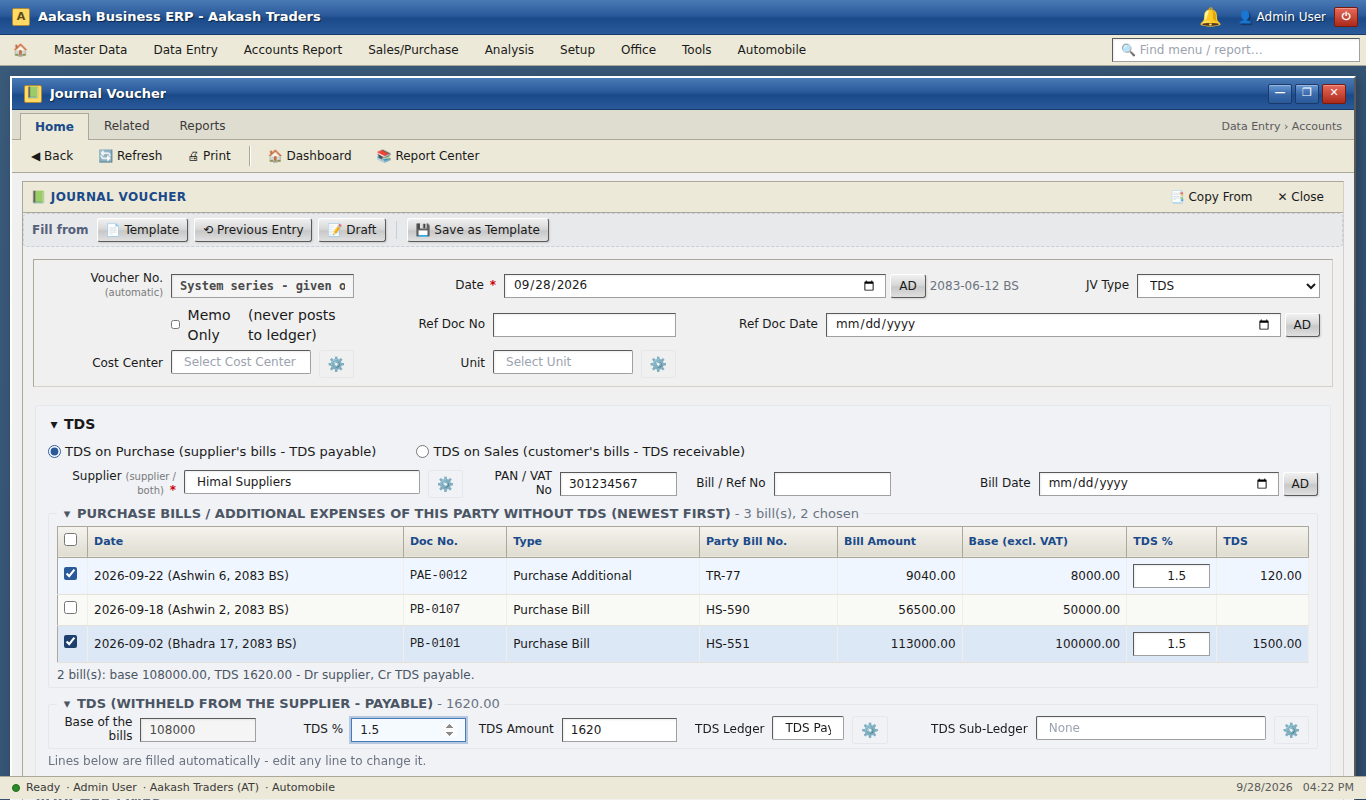
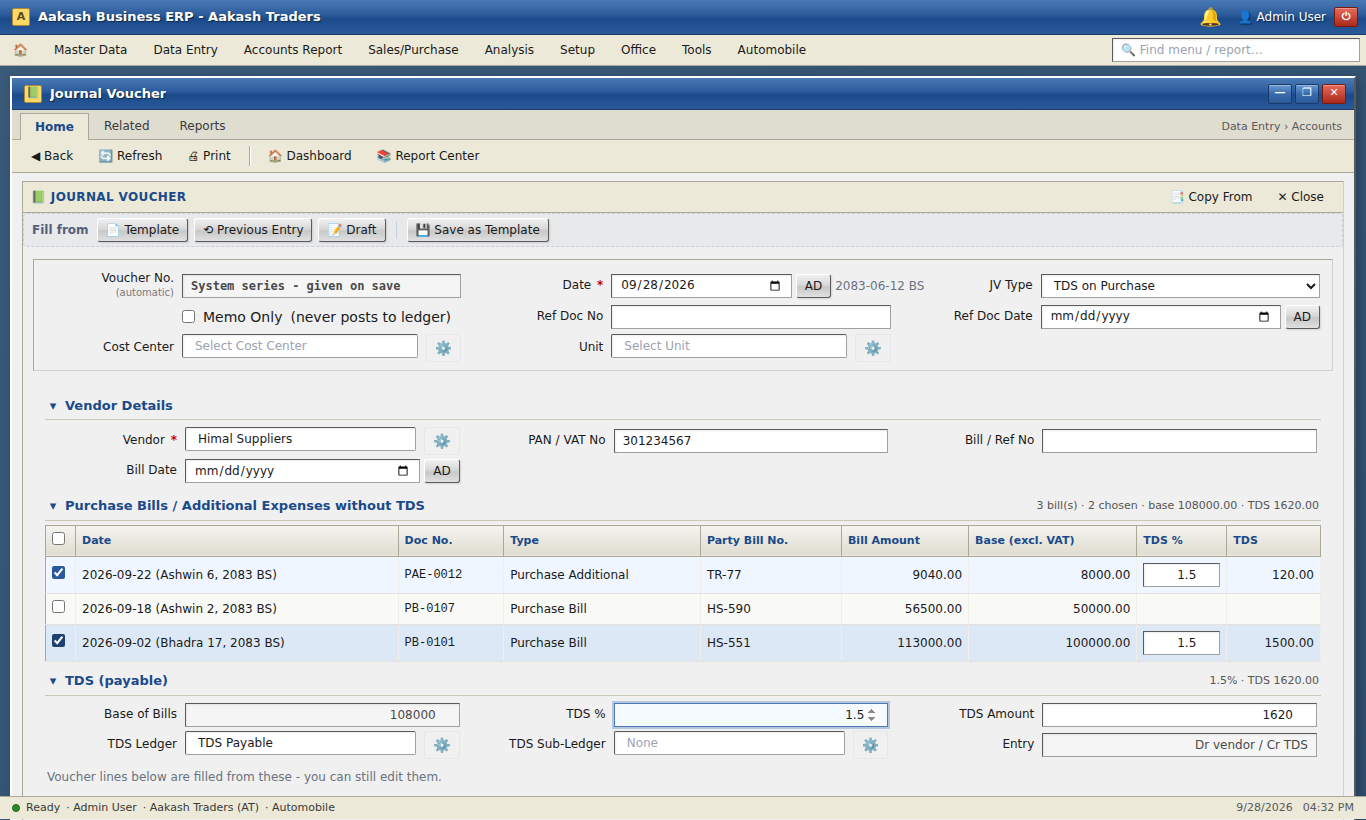
JV: TDS on Purchase / Sales in the JV Type drop-down, NAV FastTabs
- JV Type is one drop-down; TDS on Purchase and TDS on Sales are its
  own choices (no separate radio buttons)
- Vendor/Customer Details, Bill Details, Bills without TDS and TDS are
  folding FastTabs with an arrow and a summary while folded
- Even caption-left three-column fields with small gaps; master part
  in three clean columns

Claude-Session: https://claude.ai/code/session_01JSLvMSYStLj7q2tQjBdXtX

diff --git a/client/src/pages/JournalVoucher.jsx b/client/src/pages/JournalVoucher.jsx
@@ -43,6 +43,9 @@ export const JV_TYPES = [
     { key: 'service_sales', label: 'Taxable / Non-taxable Service Sales', side: 'sales', purposes: ['income'], acct: 'Service Income A/c' },
     { key: 'tds', label: 'TDS', side: 'tds', purposes: ['expense', 'purchase_goods', 'fixed_asset'], acct: 'Expense A/c' }
 ];
+// the JV Type drop-down: one choice, TDS split into on-purchase / on-sales
+const TYPE_CHOICES = [...JV_TYPES.filter(t => t.key !== 'tds').map(t => ({ value: t.key, label: t.label })),
+    { value: 'tds:purchase', label: 'TDS on Purchase' }, { value: 'tds:sales', label: 'TDS on Sales' }];
 const typeOf = k => JV_TYPES.find(t => t.key === k) || JV_TYPES[0];
 const Arrow = ({ open }) => <span className="inline-block w-3 text-center" style={{ transform: open ? 'rotate(0deg)' : 'rotate(-90deg)', transition: 'transform .15s' }}>▾</span>;
 
@@ -171,10 +174,12 @@ export default function JournalVoucher() {
     // TDS journal against bills: the party's open bills (newest first), several can be chosen
     const [openBills, setOpenBills] = useState([]);
     // the bill list folds away with the arrow; the chosen bills' total stays visible
-    const [billsOpen, setBillsOpen] = useState(false);
-    // the type's option panel and the (optional) TDS part fold with their arrows too
-    const [panelOpen, setPanelOpen] = useState(true);
+    // FastTabs of the type's options: each folds with its arrow (summary shown when folded)
+    const [partyOpen, setPartyOpen] = useState(true);
+    const [detailOpen, setDetailOpen] = useState(true);
+    const [billsOpen, setBillsOpen] = useState(true);
     const [tdsOpen, setTdsOpen] = useState(false);
+    useEffect(() => { setTdsOpen(form.jv_type === 'tds' || Number(form.tds_amount) > 0); }, [form.jv_type]); // eslint-disable-line react-hooks/exhaustive-deps
     useEffect(() => {
         if (!isTds || !form.party_ledger_id) { setOpenBills([]); return; }
         const q = new URLSearchParams({ side: form.tds_side || 'purchase', party_id: form.party_ledger_id, ...(editingId ? { jv_id: editingId } : {}) });
@@ -198,12 +203,12 @@ export default function JournalVoucher() {
     const lineLedgers = jt.key === 'normal' ? ledgers : ledgers.filter(l => partyCats.includes(l.category_type)
         || (jt.purposes || []).some(p => lp.can(l.id, p)) || lp.can(l.id, partySales ? 'income' : 'expense')
         || [taxAcct.vat, form.tds_ledger_id, defaultTdsLedger, sysCtl.vat_ledger_id].includes(l.id) || form.details.some(d => d.ledger_id === l.id));
-    const changeType = key => {
+    const changeType = (key, side) => {
         setAutoLines(true);
+        setPartyOpen(true); setDetailOpen(true); setBillsOpen(true);
         // a new type starts its TDS afresh (the TDS type's base is not a purchase's)
-        setForm(f => ({ ...f, jv_type: key, tds_ledger_id: '', tds_sub_ledger_id: '', tds_percent: '', tds_base_amount: '', tds_amount: '', tds_bills: [], party_ledger_id: '', party_pan: '', ...(key === 'normal' ? { details: [emptyDetailRow(), emptyDetailRow()] } : {}) }));
+        setForm(f => ({ ...f, jv_type: key, tds_ledger_id: '', tds_sub_ledger_id: '', tds_percent: '', tds_base_amount: '', tds_amount: '', tds_bills: [], party_ledger_id: '', party_pan: '', tds_side: side || 'purchase', ...(key === 'normal' ? { details: [emptyDetailRow(), emptyDetailRow()] } : {}) }));
     };
-    const changeTdsSide = side => { setAutoLines(true); setForm(f => ({ ...f, tds_side: side, party_ledger_id: '', party_pan: '', tds_bills: [], tds_ledger_id: '', tds_sub_ledger_id: '', tds_base_amount: '', tds_amount: '' })); };
     const buildTaxLines = (f, acct) => {
         const t = typeOf(f.jv_type);
         const goodsAmt = r2(Number(f.taxable_amount || 0) + Number(f.non_taxable_amount || 0)), vat = r2(f.vat_amount), total = r2(goodsAmt + vat), tds = r2(f.tds_amount);
@@ -388,16 +393,17 @@ export default function JournalVoucher() {
             {showForm && (
                 <form onSubmit={handleSubmit} ref={formRef}>
                     <EntryFillBar voucherType="journal" api="journal-vouchers" form={form} editing={!!editingId} onFill={p => setForm(f => ({ ...f, ...p }))} onCopy={r => handleCopyFrom(r.id)} />
-                    <div className="erp-topbar grid-cols-1 md:grid-cols-4">
+                    <div className="erp-topbar grid-cols-1 md:grid-cols-3">
                         <DocNumberField docDate={form.doc_date} voucherType="journal" categoryId={form.numbering_category_id} docNo={editingId ? form.doc_no : ''} value={form.doc_no} onChange={v => setForm(f => ({ ...f, doc_no: v }))} />
-                        <div className={efc.isVisible('doc_date') ? 'erp-field md:col-span-2' : 'erp-field hidden'}>
+                        <div className={efc.isVisible('doc_date') ? 'erp-field' : 'erp-field hidden'}>
                             <label className="erp-label">Date <span className="req">*</span></label>
                             <DualDateInput value={form.doc_date} onChange={v => setForm(f => ({ ...f, doc_date: v }))} disabled={efc.isReadonly('doc_date')} required defaultMode={sysCtl.date_format_entry} />
                         </div>
                         <div className={efc.isVisible('jv_type') ? 'erp-field' : 'erp-field hidden'}>
                             <label className="erp-label">JV Type</label>
-                            <select className="erp-select" value={form.jv_type} disabled={efc.isReadonly('jv_type')} onChange={e => changeType(e.target.value)}>
-                                {JV_TYPES.map(t => <option key={t.key} value={t.key}>{t.label}</option>)}
+                            <select className="erp-select" value={form.jv_type === 'tds' ? `tds:${form.tds_side || 'purchase'}` : form.jv_type} disabled={efc.isReadonly('jv_type')}
+                                onChange={e => { const [k, side] = e.target.value.split(':'); changeType(k, side); }}>
+                                {TYPE_CHOICES.map(t => <option key={t.value} value={t.value}>{t.label}</option>)}
                             </select>
                         </div>
                         <div className="erp-field justify-end">
@@ -410,7 +416,7 @@ export default function JournalVoucher() {
                             <label className="erp-label">Ref Doc No {efc.isRequired('ref_doc_no') && <span className="req">*</span>}</label>
                             <input disabled={efc.isReadonly('ref_doc_no')} className="erp-input" value={form.ref_doc_no} onChange={e => setForm({ ...form, ref_doc_no: e.target.value })} />
                         </div>
-                        <div className={efc.isVisible('ref_doc_date') ? 'erp-field md:col-span-2' : 'erp-field hidden'}>
+                        <div className={efc.isVisible('ref_doc_date') ? 'erp-field' : 'erp-field hidden'}>
                             <label className="erp-label">Ref Doc Date {efc.isRequired('ref_doc_date') && <span className="req">*</span>}</label>
                             <DualDateInput value={form.ref_doc_date} onChange={v => setForm(f => ({ ...f, ref_doc_date: v }))} disabled={efc.isReadonly('ref_doc_date')} defaultMode={sysCtl.date_format_entry} />
                         </div>
@@ -442,59 +448,69 @@ export default function JournalVoucher() {
                     </div>
 
                     <div className="erp-tab-content">
-                        {jt.key !== 'normal' && (
-                        <div className="border rounded px-3 py-2 mb-3 bg-blue-50/40">
-                            <button type="button" className="flex items-center gap-1 text-sm font-semibold" onClick={() => setPanelOpen(o => !o)} aria-expanded={panelOpen} title={panelOpen ? 'Collapse' : 'Expand'}>
-                                <Arrow open={panelOpen} /> {jt.label}
-                                {!panelOpen && <span className="font-normal text-gray-500 text-xs ml-2">{ledgers.find(l => l.id === form.party_ledger_id)?.account_name || 'no party'}{isTax ? ` · bill ${taxTotal.toFixed(2)}` : ''}{tdsAmount > 0 ? ` · TDS ${tdsAmount.toFixed(2)}` : ''}</span>}
+                        {jt.key !== 'normal' && (<>
+                        {/* ---- Vendor / Customer (FastTab) ---- */}
+                        <div className="nav-fasttab">
+                            <button type="button" className="nav-fasttab-head" onClick={() => setPartyOpen(o => !o)} aria-expanded={partyOpen}>
+                                <Arrow open={partyOpen} /> {partySales ? 'Customer' : 'Vendor'} Details
+                                {!partyOpen && <span className="nav-fasttab-sum">{ledgers.find(l => l.id === form.party_ledger_id)?.account_name || 'not chosen'}{form.party_pan ? ` · PAN ${form.party_pan}` : ''}{form.party_bill_no ? ` · Bill ${form.party_bill_no}` : ''}</span>}
                             </button>
-                            {panelOpen && (<>
-                            <div className="grid grid-cols-2 md:grid-cols-6 gap-x-3 gap-y-1 mt-1">
-                                {isTds && (
-                                    <div className="md:col-span-6 col-span-2 flex flex-wrap items-center gap-x-6 gap-y-1 text-sm py-1">
-                                        {[['purchase', 'TDS on Purchase (supplier\'s bills - TDS payable)'], ['sales', 'TDS on Sales (customer\'s bills - TDS receivable)']].map(([k, t]) => (
-                                            <label key={k} className="flex items-center gap-1 mr-4"><input type="radio" name="jv_tds_side" checked={(form.tds_side || 'purchase') === k} onChange={() => changeTdsSide(k)} /> {t}</label>
-                                        ))}
+                            {partyOpen && (
+                                <div className="nav-fasttab-body">
+                                    <div className="erp-field"><label className="erp-label">{partySales ? 'Customer' : 'Vendor'} <span className="req">*</span></label>
+                                        <SearchablePopupSelect
+                                            listKey="jv_tax_party_picker"
+                                            columns={[{ key: 'account_code', label: 'Code' }, { key: 'account_name', label: 'Name' }, { key: 'pan_number', label: 'PAN' }]}
+                                            defaultVisibleKeys={['account_name']}
+                                            items={partyLedgers} getId={l => l.id} getLabel={l => l.account_name}
+                                            searchKeys={['account_name', 'account_code', 'pan_number']}
+                                            value={form.party_ledger_id} onChange={id => setTax({ party_ledger_id: id, tds_bills: [], tds_base_amount: '', tds_amount: '' })} placeholder={partySales ? 'Customer / both' : 'Vendor / both'}
+                                        /></div>
+                                    <div className="erp-field"><label className="erp-label">PAN / VAT No</label><input className="erp-input" value={form.party_pan || ''} onChange={e => setTax({ party_pan: e.target.value })} /></div>
+                                    <div className="erp-field"><label className="erp-label">{jt.side === 'purchase' ? "Vendor's Bill No" : jt.side === 'sales' ? 'Invoice No' : 'Bill / Ref No'}{jt.side === 'purchase' && <span className="req">*</span>}</label><input className="erp-input" value={form.party_bill_no || ''} onChange={e => setTax({ party_bill_no: e.target.value })} /></div>
+                                    <div className="erp-field"><label className="erp-label">Bill Date</label><DualDateInput value={form.party_bill_date || ''} onChange={v => setTax({ party_bill_date: v })} defaultMode={sysCtl.date_format_entry} /></div>
+                                </div>
+                            )}
+                        </div>
+
+                        {/* ---- Bill Details (FastTab): amounts and accounts of the tax types ---- */}
+                        {(isTax || (isTds && !billMode && !tdsSales)) && (
+                            <div className="nav-fasttab">
+                                <button type="button" className="nav-fasttab-head" onClick={() => setDetailOpen(o => !o)} aria-expanded={detailOpen}>
+                                    <Arrow open={detailOpen} /> Bill Details
+                                    {!detailOpen && <span className="nav-fasttab-sum">{isTax ? `Taxable ${r2(form.taxable_amount).toFixed(2)} · Non-taxable ${r2(form.non_taxable_amount).toFixed(2)} · VAT ${r2(form.vat_amount).toFixed(2)} · Total ${taxTotal.toFixed(2)}` : `Expense ${r2(form.tds_base_amount).toFixed(2)}`}</span>}
+                                </button>
+                                {detailOpen && (
+                                    <div className="nav-fasttab-body">
+                                        {isTax && (<>
+                                            <div className="erp-field"><label className="erp-label">Taxable Amount</label><input type="number" step="0.01" className="erp-input text-right" value={form.taxable_amount} onChange={e => setTax({ taxable_amount: e.target.value })} /></div>
+                                            <div className="erp-field"><label className="erp-label">VAT %</label><input type="number" step="0.01" className="erp-input text-right" value={form.vat_percent ?? ''} onChange={e => setTax({ vat_percent: e.target.value })} /></div>
+                                            <div className="erp-field"><label className="erp-label">VAT Amount</label><input type="number" step="0.01" className="erp-input text-right" value={form.vat_amount} onChange={e => setTax({ vat_amount: e.target.value })} /></div>
+                                            <div className="erp-field"><label className="erp-label">Non-taxable Amount</label><input type="number" step="0.01" className="erp-input text-right" value={form.non_taxable_amount} onChange={e => setTax({ non_taxable_amount: e.target.value })} /></div>
+                                        </>)}
+                                        <div className="erp-field"><label className="erp-label">{jt.acct}</label>
+                                            <SearchablePopupSelect listKey="jv_tax_goods_picker" columns={[{ key: 'account_code', label: 'Code' }, { key: 'account_name', label: 'Name' }]} defaultVisibleKeys={['account_name']}
+                                                items={filterAny(ledgers, jt.purposes || [], taxAcct.goods)} getId={l => l.id} getLabel={l => l.account_name} searchKeys={['account_name', 'account_code']}
+                                                value={taxAcct.goods} onChange={id => { setAutoLines(true); setTaxAcct(a => ({ ...a, goods: id })); }} placeholder="Choose account" /></div>
+                                        {isTax && <div className="erp-field"><label className="erp-label">VAT A/c</label>
+                                            <SearchablePopupSelect listKey="jv_tax_vat_picker" columns={[{ key: 'account_code', label: 'Code' }, { key: 'account_name', label: 'Name' }]} defaultVisibleKeys={['account_name']}
+                                                items={lp.filter(ledgers, 'vat', taxAcct.vat)} getId={l => l.id} getLabel={l => l.account_name} searchKeys={['account_name', 'account_code']}
+                                                value={taxAcct.vat} onChange={id => { setAutoLines(true); setTaxAcct(a => ({ ...a, vat: id })); }} placeholder="VAT ledger" /></div>}
+                                        {isTax && <div className="erp-field"><label className="erp-label">Bill Total</label><input className="erp-input text-right font-semibold" readOnly tabIndex={-1} value={taxTotal.toFixed(2)} /></div>}
                                     </div>
                                 )}
-                                <div className="erp-field md:col-span-2"><label className="erp-label">{partySales ? 'Customer' : 'Supplier'} <span className="hint">({partySales ? 'customer / both' : 'supplier / both'})</span> <span className="req">*</span></label>
-                                    <SearchablePopupSelect
-                                        listKey="jv_tax_party_picker"
-                                        columns={[{ key: 'account_code', label: 'Code' }, { key: 'account_name', label: 'Name' }, { key: 'pan_number', label: 'PAN' }]}
-                                        defaultVisibleKeys={['account_name']}
-                                        items={partyLedgers} getId={l => l.id} getLabel={l => l.account_name}
-                                        searchKeys={['account_name', 'account_code', 'pan_number']}
-                                        value={form.party_ledger_id} onChange={id => setTax({ party_ledger_id: id, tds_bills: [], tds_base_amount: '', tds_amount: '' })} placeholder="Choose party"
-                                    /></div>
-                                <div className="erp-field"><label className="erp-label">PAN / VAT No</label><input className="erp-input" value={form.party_pan || ''} onChange={e => setTax({ party_pan: e.target.value })} /></div>
-                                <div className="erp-field"><label className="erp-label">{jt.side === 'purchase' ? "Supplier's Bill No *" : jt.side === 'sales' ? 'Invoice No' : 'Bill / Ref No'}</label><input className="erp-input" value={form.party_bill_no || ''} onChange={e => setTax({ party_bill_no: e.target.value })} /></div>
-                                <div className="erp-field md:col-span-2"><label className="erp-label">Bill Date</label><DualDateInput value={form.party_bill_date || ''} onChange={v => setTax({ party_bill_date: v })} defaultMode={sysCtl.date_format_entry} /></div>
-                                {isTax && (<>
-                                    <div className="erp-field"><label className="erp-label">Taxable Amount</label><input type="number" step="0.01" className="erp-input" value={form.taxable_amount} onChange={e => setTax({ taxable_amount: e.target.value })} /></div>
-                                    <div className="erp-field"><label className="erp-label">Non-taxable Amount</label><input type="number" step="0.01" className="erp-input" value={form.non_taxable_amount} onChange={e => setTax({ non_taxable_amount: e.target.value })} /></div>
-                                    <div className="erp-field"><label className="erp-label">VAT %</label><input type="number" step="0.01" className="erp-input" value={form.vat_percent ?? ''} onChange={e => setTax({ vat_percent: e.target.value })} /></div>
-                                    <div className="erp-field"><label className="erp-label">VAT Amount</label><input type="number" step="0.01" className="erp-input" value={form.vat_amount} onChange={e => setTax({ vat_amount: e.target.value })} /></div>
-                                </>)}
-                                {!(isTds && (billMode || tdsSales)) && <div className="erp-field"><label className="erp-label">{jt.acct}</label>
-                                    <SearchablePopupSelect listKey="jv_tax_goods_picker" columns={[{ key: 'account_code', label: 'Code' }, { key: 'account_name', label: 'Name' }]} defaultVisibleKeys={['account_name']}
-                                        items={filterAny(ledgers, jt.purposes || [], taxAcct.goods)} getId={l => l.id} getLabel={l => l.account_name} searchKeys={['account_name', 'account_code']}
-                                        value={taxAcct.goods} onChange={id => { setAutoLines(true); setTaxAcct(a => ({ ...a, goods: id })); }} placeholder="Choose account" /></div>}
-                                {isTax && <div className="erp-field"><label className="erp-label">VAT A/c</label>
-                                    <SearchablePopupSelect listKey="jv_tax_vat_picker" columns={[{ key: 'account_code', label: 'Code' }, { key: 'account_name', label: 'Name' }]} defaultVisibleKeys={['account_name']}
-                                        items={lp.filter(ledgers, 'vat', taxAcct.vat)} getId={l => l.id} getLabel={l => l.account_name} searchKeys={['account_name', 'account_code']}
-                                        value={taxAcct.vat} onChange={id => { setAutoLines(true); setTaxAcct(a => ({ ...a, vat: id })); }} placeholder="VAT ledger" /></div>}
                             </div>
-                            {isTds && form.party_ledger_id && (
-                                <fieldset className="border rounded px-2 py-1 mt-2">
-                                    <legend className="px-1 text-xs font-semibold text-gray-600 uppercase">
-                                        <button type="button" className="flex items-center gap-1 uppercase" onClick={() => setBillsOpen(o => !o)} title={billsOpen ? 'Collapse the bill list' : 'Expand the bill list'} aria-expanded={billsOpen}>
-                                            <Arrow open={billsOpen} />
-                                            {tdsSales ? 'Sales bills' : 'Purchase bills / additional expenses'} of this party without TDS (newest first)
-                                            <span className="normal-case font-normal text-gray-500">- {shownBills.length} bill(s){(form.tds_bills || []).length ? `, ${form.tds_bills.length} chosen` : ''}</span>
-                                        </button>
-                                    </legend>
-                                    {billsOpen && (
-                                    <div className="overflow-auto" style={{ maxHeight: 180 }}>
+                        )}
+
+                        {/* ---- Bills without TDS (FastTab) ---- */}
+                        {isTds && form.party_ledger_id && (
+                            <div className="nav-fasttab">
+                                <button type="button" className="nav-fasttab-head" onClick={() => setBillsOpen(o => !o)} aria-expanded={billsOpen}>
+                                    <Arrow open={billsOpen} /> {tdsSales ? 'Sales Bills' : 'Purchase Bills / Additional Expenses'} without TDS
+                                    <span className="nav-fasttab-sum">{shownBills.length} bill(s){billMode ? ` · ${form.tds_bills.length} chosen · base ${r2(form.tds_base_amount).toFixed(2)} · TDS ${tdsAmount.toFixed(2)}` : ''}</span>
+                                </button>
+                                {billsOpen && (
+                                    <div className="overflow-auto my-1" style={{ maxHeight: 180 }}>
                                         <table className="erp-grid-table">
                                             <thead><tr>
                                                 <th style={{ width: 30 }}><input type="checkbox" checked={shownBills.length > 0 && shownBills.every(b => (form.tds_bills || []).some(x => billKey(x) === billKey(b)))}
@@ -514,48 +530,43 @@ export default function JournalVoucher() {
                                                         </tr>
                                                     );
                                                 })}
-                                                {shownBills.length === 0 && <tr><td colSpan={9} className="text-center text-gray-400">No bill of this party is waiting for TDS{tdsSales ? '' : ' - enter the amount below for TDS on an expense without a bill'}.</td></tr>}
+                                                {shownBills.length === 0 && <tr><td colSpan={9} className="text-center text-gray-400">No bill of this party is waiting for TDS{tdsSales ? '' : ' - use Bill Details for TDS on an expense without a bill'}.</td></tr>}
                                             </tbody>
                                         </table>
                                     </div>
-                                    )}
-                                    {billMode && <p className="text-xs text-gray-600 mt-1">{form.tds_bills.length} bill(s): base {r2(form.tds_base_amount).toFixed(2)}, TDS {tdsAmount.toFixed(2)} - {tdsSales ? 'Dr TDS receivable, Cr customer.' : 'Dr supplier, Cr TDS payable.'}</p>}
-                                </fieldset>
-                            )}
-                            <fieldset className="border rounded px-2 py-1 mt-2">
-                                <legend className="px-1 text-xs font-semibold text-gray-600 uppercase">
-                                    <button type="button" className="flex items-center gap-1 uppercase" onClick={() => setTdsOpen(o => !o)} aria-expanded={isTds || tdsOpen || tdsAmount > 0}>
-                                        <Arrow open={isTds || tdsOpen || tdsAmount > 0} />
-                                        TDS {partySales ? '(deducted by the customer - receivable)' : '(withheld from the supplier - payable)'}{jt.side !== 'tds' && <span className="font-normal normal-case"> - optional</span>}
-                                        {tdsAmount > 0 && <span className="normal-case font-normal text-gray-500">- {tdsAmount.toFixed(2)}</span>}
-                                    </button>
-                                </legend>
-                                {(isTds || tdsOpen || tdsAmount > 0) && (<>
-                                <div className="grid grid-cols-2 md:grid-cols-6 gap-x-3 gap-y-1">
-                                    <div className="erp-field"><label className="erp-label">{isTds ? (billMode ? 'Base of the bills' : 'Amount (TDS base) *') : 'TDS Base'}</label><input type="number" step="0.01" className="erp-input" readOnly={billMode} value={form.tds_base_amount} onChange={e => setTax({ tds_base_amount: e.target.value })} placeholder={isTds ? '' : goodsAmount.toFixed(2)} /></div>
-                                    <div className="erp-field"><label className="erp-label">TDS %</label><input type="number" step="0.001" className="erp-input" value={form.tds_percent} onChange={e => setTax({ tds_percent: e.target.value })} placeholder={sysCtl.default_tds_percent ? String(sysCtl.default_tds_percent) : '1.5'} /></div>
-                                    <div className="erp-field"><label className="erp-label">TDS Amount</label><input type="number" step="0.01" className="erp-input" value={form.tds_amount} onChange={e => setTax({ tds_amount: e.target.value })} /></div>
+                                )}
+                            </div>
+                        )}
+
+                        {/* ---- TDS (FastTab) ---- */}
+                        <div className="nav-fasttab">
+                            <button type="button" className="nav-fasttab-head" onClick={() => setTdsOpen(o => !o)} aria-expanded={tdsOpen}>
+                                <Arrow open={tdsOpen} /> TDS {partySales ? '(receivable)' : '(payable)'}{!isTds && <span className="font-normal text-xs text-gray-500 ml-1">optional</span>}
+                                <span className="nav-fasttab-sum">{tdsAmount > 0 ? `${Number(form.tds_percent || 0) ? `${form.tds_percent}% · ` : ''}TDS ${tdsAmount.toFixed(2)}` : 'none'}</span>
+                            </button>
+                            {tdsOpen && (
+                                <div className="nav-fasttab-body">
+                                    <div className="erp-field"><label className="erp-label">{billMode ? 'Base of Bills' : 'TDS Base'}{isTds && !billMode && !tdsSales && <span className="req">*</span>}</label><input type="number" step="0.01" className="erp-input text-right" readOnly={billMode} value={form.tds_base_amount} onChange={e => setTax({ tds_base_amount: e.target.value })} placeholder={isTds ? '' : goodsAmount.toFixed(2)} /></div>
+                                    <div className="erp-field"><label className="erp-label">TDS %</label><input type="number" step="0.001" className="erp-input text-right" value={form.tds_percent} onChange={e => setTax({ tds_percent: e.target.value })} placeholder={sysCtl.default_tds_percent ? String(sysCtl.default_tds_percent) : '1.5'} /></div>
+                                    <div className="erp-field"><label className="erp-label">TDS Amount</label><input type="number" step="0.01" className="erp-input text-right" value={form.tds_amount} onChange={e => setTax({ tds_amount: e.target.value })} /></div>
                                     <div className="erp-field"><label className="erp-label">TDS Ledger</label>
                                         <SearchablePopupSelect listKey="jv_tds_ledger_picker" columns={[{ key: 'account_code', label: 'Code' }, { key: 'account_name', label: 'Name' }]} defaultVisibleKeys={['account_name']}
-                                        items={lp.filter(ledgers, 'tds', form.tds_ledger_id)} getId={l => l.id} getLabel={l => l.account_name} searchKeys={['account_name', 'account_code']}
-                                        value={form.tds_ledger_id} onChange={id => { setAutoLines(true); setForm(f => ({ ...f, tds_ledger_id: id, tds_sub_ledger_id: '' })); }} placeholder="System Control default" /></div>
-                                    <div className="erp-field md:col-span-2"><label className="erp-label">TDS Sub-Ledger</label>
+                                            items={lp.filter(ledgers, 'tds', form.tds_ledger_id)} getId={l => l.id} getLabel={l => l.account_name} searchKeys={['account_name', 'account_code']}
+                                            value={form.tds_ledger_id} onChange={id => { setAutoLines(true); setForm(f => ({ ...f, tds_ledger_id: id, tds_sub_ledger_id: '' })); }} placeholder="System Control default" /></div>
+                                    <div className="erp-field"><label className="erp-label">TDS Sub-Ledger</label>
                                         <SearchablePopupSelect listKey="jv_tds_subledger_picker" columns={[{ key: 'sub_ledger_code', label: 'Code' }, { key: 'sub_ledger_name', label: 'Name' }]} defaultVisibleKeys={['sub_ledger_name']}
                                             items={subLedgers.filter(x => x.main_ledger_id === (form.tds_ledger_id || defaultTdsLedger))} getId={x => x.id} getLabel={x => x.sub_ledger_name} searchKeys={['sub_ledger_name', 'sub_ledger_code']}
                                             value={form.tds_sub_ledger_id} onChange={id => { setAutoLines(true); setForm(f => ({ ...f, tds_sub_ledger_id: id, tds_ledger_id: f.tds_ledger_id || defaultTdsLedger || '' })); }} placeholder={(form.tds_ledger_id || defaultTdsLedger) ? 'None' : 'Choose the TDS ledger first'} /></div>
+                                    <div className="erp-field"><label className="erp-label">{partySales ? 'Customer Pays' : isTds && (billMode || tdsSales) ? 'Entry' : 'Vendor Gets'}</label>
+                                        <input className="erp-input text-right" readOnly tabIndex={-1} value={isTds && (billMode || tdsSales) ? (tdsSales ? 'Dr TDS / Cr customer' : 'Dr vendor / Cr TDS') : r2((isTax ? taxTotal : tdsBase) - tdsAmount).toFixed(2)} /></div>
                                 </div>
-                                {tdsAmount > 0 && !billMode && <p className="text-xs text-gray-500 mt-1">TDS {tdsBase.toFixed(2)} x {Number(form.tds_percent || 0)}% = {tdsAmount.toFixed(2)} · {partySales ? 'Dr TDS receivable.' : 'Cr TDS payable.'}</p>}
-                                </>)}
-                            </fieldset>
-                            <div className="flex items-center gap-3 text-sm mt-1 flex-wrap">
-                                {isTax && <span>Bill total <b>{taxTotal.toFixed(2)}</b>{tdsAmount > 0 && <> · {jt.side === 'sales' ? 'Customer' : 'Supplier'} <b>{r2(taxTotal - tdsAmount).toFixed(2)}</b></>}</span>}
-                                {isTds && !billMode && !tdsSales && <span>Party gets <b>{r2(tdsBase - tdsAmount).toFixed(2)}</b></span>}
-                                {!autoLines && <button type="button" className="erp-btn" onClick={() => setAutoLines(true)}>↻ Refill voucher lines from these</button>}
-                                <span className="text-xs text-gray-500">{autoLines ? 'Lines below are filled automatically - edit any line to change it.' : 'Lines were edited by hand.'}</span>
-                            </div>
-                            </>)}
+                            )}
                         </div>
-                        )}
+                        <div className="flex items-center gap-3 text-xs text-gray-500 mx-3 mt-1 mb-2">
+                            {!autoLines && <button type="button" className="nav-btn small" onClick={() => setAutoLines(true)}>↻ Refill voucher lines</button>}
+                            <span>{autoLines ? 'Voucher lines below are filled from these - you can still edit them.' : 'Voucher lines were edited by hand.'}</span>
+                        </div>
+                        </>)}
 
                         <h2 className="font-semibold text-sm text-gray-500 uppercase mb-2">Voucher Lines</h2>
                         <div className="overflow-x-auto">

diff --git a/client/src/index.css b/client/src/index.css
@@ -271,6 +271,16 @@
   .erp-header-btn.danger { color: #a92a1a; }
   .erp-header-btn:disabled { opacity: .55; cursor: default; }
 
+  /* NAV-style FastTab: a collapsible section of a card - bold caption with an arrow, a thin
+     rule under it, its summary on the right while folded, fields in even caption-left columns */
+  .nav-fasttab { margin: 2px 10px 0; }
+  .nav-fasttab-head { display: flex; align-items: center; gap: 6px; width: 100%; padding: 5px 2px 4px; background: none; border: 0;
+    border-bottom: 1px solid #c9c6ba; font-size: 13px; font-weight: 700; color: #1a4a8a; text-align: left; cursor: pointer; }
+  .nav-fasttab-head:hover { color: #0f3470; background: #f6f5ef; }
+  .nav-fasttab-sum { margin-left: auto; font-size: 11px; font-weight: 400; color: #555; white-space: nowrap; overflow: hidden; text-overflow: ellipsis; max-width: 60%; }
+  .nav-fasttab-body { display: grid; grid-template-columns: repeat(3, minmax(0, 1fr)); gap: 4px 18px; padding: 7px 4px 6px; }
+  @media (max-width: 1279px) { .nav-fasttab-body { grid-template-columns: repeat(2, minmax(0, 1fr)); } }
+  @media (max-width: 767px) { .nav-fasttab-body { grid-template-columns: minmax(0, 1fr); } }
   .erp-topbar { display: grid; gap: 7px 12px; background: #f0f0f0; border: 1px solid #aca899; border-right-color: #d4d0c8; border-bottom-color: #d4d0c8; margin: 12px 10px 6px; padding: 14px 12px 10px; position: relative; }
   .erp-field { display: flex; flex-direction: column; gap: 2px; }
   .erp-label { font-size: 12px; font-weight: 400; color: #1a1a1a; }

diff --git a/docs/USER_MANUAL.md b/docs/USER_MANUAL.md
@@ -196,6 +196,7 @@ The effect of each transaction is shown in a box like this:
 - Example: taxable 1000, VAT 13% (130 worked out), non-taxable 1000 -> Purchase A/c 2000 Dr, VAT 130 Dr, supplier 2130 Cr.
 - **Auto balance** (every JV): type 100 Debit on line 1, choose the ledger on the next line and press Enter - 100 Credit is filled in (and the other way round). You can change it.
 - The lines are filled automatically and can still be edited; **Refill** puts them back.
+- The type's options are in folding sections (**Vendor/Customer Details, Bill Details, Bills without TDS, TDS**): click the arrow to hide one after filling it - its summary stays on the right. TDS on Purchase and TDS on Sales are separate choices in the JV Type drop-down.
 - **Narration** is one field in the footer (saved remarks are offered as you type).
 
 > **Accounts:** exactly the voucher lines. Tax types appear in the VAT register and VAT return; any TDS appears in the TDS report. Party lines create bill-wise references. **Stock:** none.
